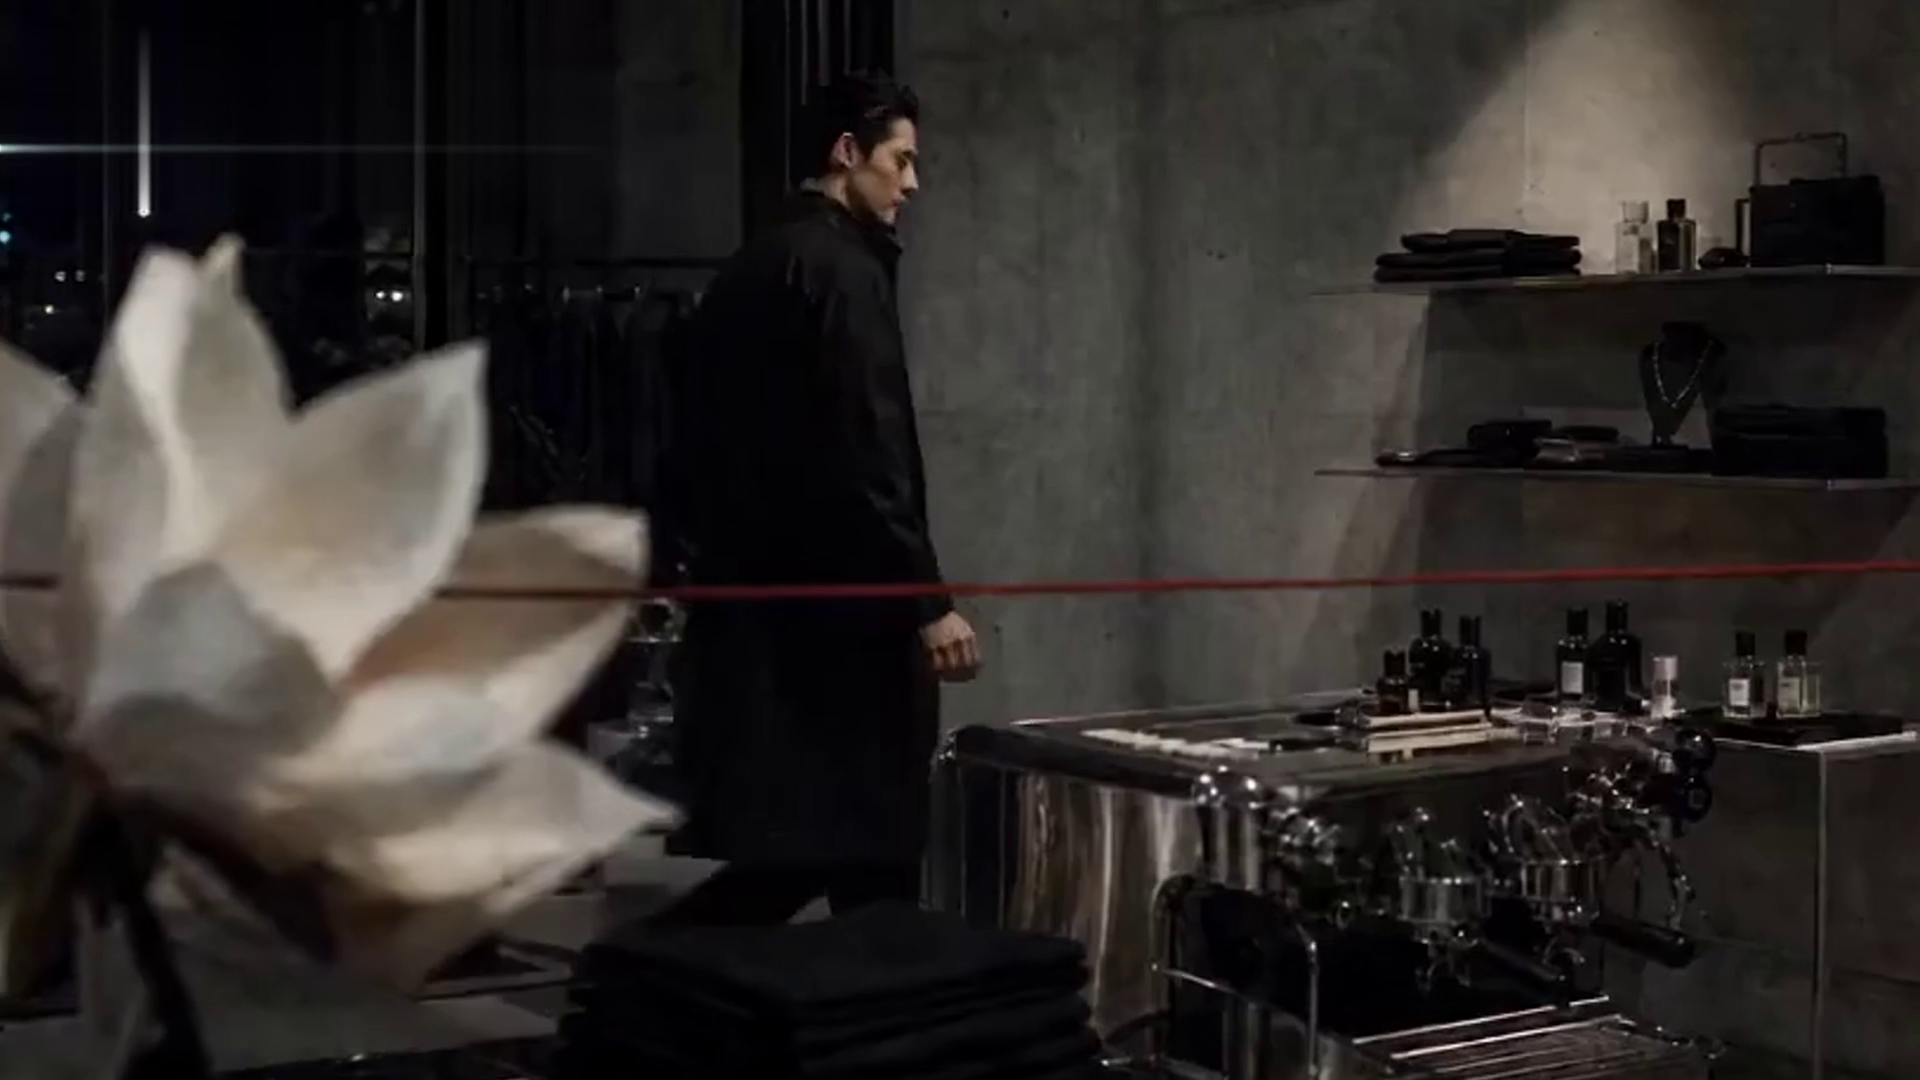
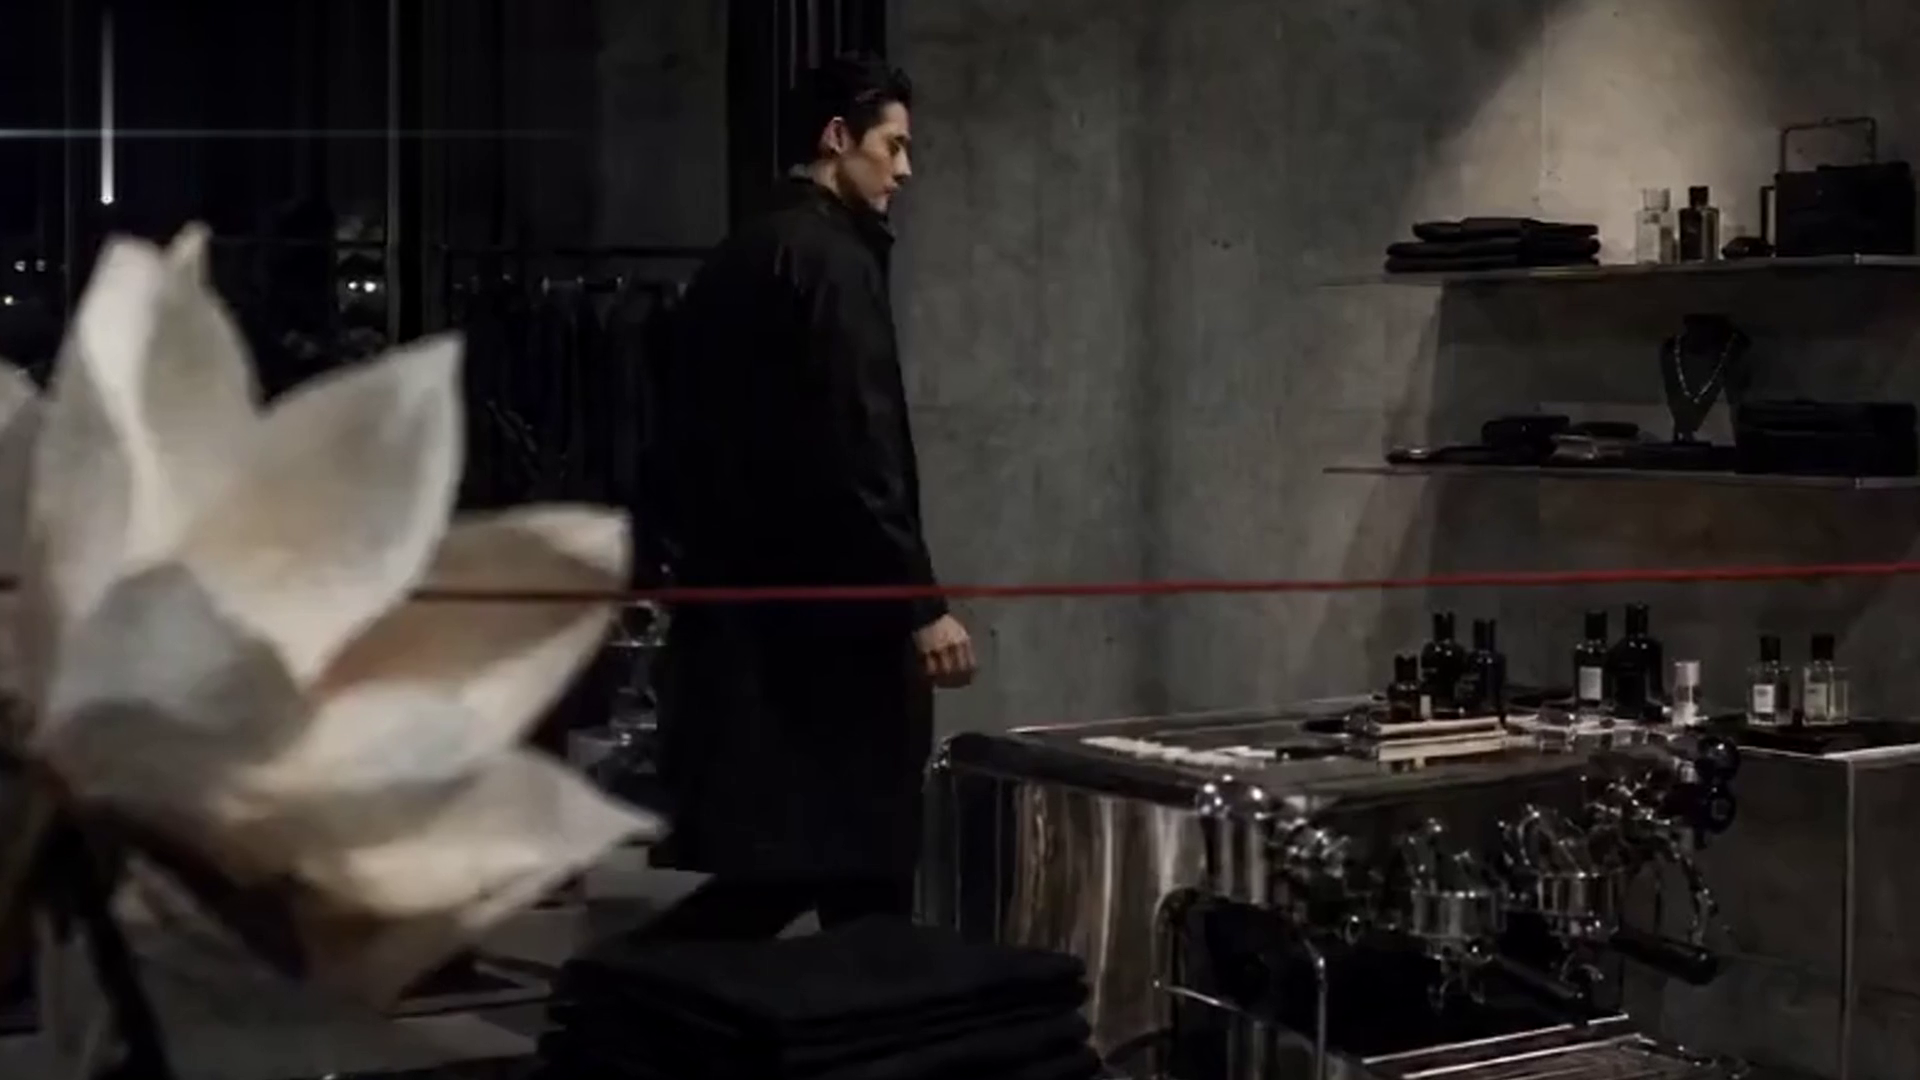
Calm KreoFlow hero motion and palette

diff --git a/src/app/globals.css b/src/app/globals.css
@@ -2,24 +2,24 @@
 
 :root {
   --background: #080909;
-  --foreground: #f5f1e8;
+  --foreground: #f2eee6;
   --surface: #151716;
-  --surface-strong: #f5f1e8;
-  --primary: #d8ff3e;
-  --primary-dark: #a4c22c;
-  --secondary: #ff6a3d;
-  --accent: #d8ff3e;
-  --accent-soft: #263012;
+  --surface-strong: #f2eee6;
+  --primary: #f2eee6;
+  --primary-dark: #c8beb0;
+  --secondary: #c74f3d;
+  --accent: #c74f3d;
+  --accent-soft: #2b1512;
   --muted: #1d201e;
   --muted-2: #272a28;
   --border: #343831;
   --ink-muted: #a9aa9f;
-  --success: #d8ff3e;
-  --warning: #ff6a3d;
+  --success: #f2eee6;
+  --warning: #c74f3d;
   --landing-bg: #080909;
-  --landing-paper: #f5f1e8;
+  --landing-paper: #f2eee6;
   --landing-ink: #080909;
-  --landing-accent: #d8ff3e;
+  --landing-accent: #c74f3d;
   --radius-sm: 14px;
   --radius-md: 22px;
   --shadow-soft: 0 30px 120px rgb(0 0 0 / 0.26);
@@ -49,11 +49,7 @@ html {
 
 body {
   min-height: 100vh;
-  background:
-    linear-gradient(90deg, rgb(255 255 255 / 0.035) 1px, transparent 1px),
-    linear-gradient(rgb(255 255 255 / 0.035) 1px, transparent 1px),
-    #080909;
-  background-size: 48px 48px;
+  background: #080909;
   color: var(--foreground);
   font-family: "Instrument Sans", sans-serif;
 }
@@ -72,7 +68,7 @@ a {
 }
 
 ::selection {
-  background: rgb(216 255 62 / 0.28);
+  background: rgb(199 79 61 / 0.32);
 }
 
 @media (prefers-reduced-motion: reduce) {
@@ -87,14 +83,7 @@ a {
 }
 
 .rf-noise {
-  pointer-events: none;
-  position: fixed;
-  inset: 0;
-  z-index: 60;
-  opacity: 0.05;
-  background-image:
-    repeating-radial-gradient(circle at 12% 20%, rgb(255 255 255 / 0.45) 0 1px, transparent 1px 5px);
-  mix-blend-mode: screen;
+  display: none;
 }
 
 .kf-hero {
@@ -117,7 +106,7 @@ a {
 .kf-hero-video {
   z-index: -2;
   object-fit: cover;
-  filter: saturate(0.88) contrast(1.08);
+  filter: saturate(0.82) contrast(1.04);
 }
 
 .kf-hero-grade {
@@ -206,7 +195,7 @@ a {
 
 .kf-hero-bottom h1 {
   max-width: 980px;
-  color: #d8ff3e;
+  color: var(--primary);
   font-family: "Space Grotesk", sans-serif;
   font-size: clamp(3.8rem, 7.9vw, 8.8rem);
   font-weight: 800;
@@ -308,7 +297,8 @@ a {
 }
 
 .rf-focus {
-  @apply focus-visible:outline-2 focus-visible:outline-offset-4 focus-visible:outline-[#d8ff3e];
+  outline-color: var(--accent);
+  @apply focus-visible:outline-2 focus-visible:outline-offset-4;
 }
 
 .rf-nav-link {
@@ -394,7 +384,7 @@ a {
 }
 
 .rf-main-cta {
-  background: #d8ff3e;
+  background: var(--primary);
   color: #080909;
 }
 
@@ -494,21 +484,21 @@ a {
 
 .rf-shot-visual-1 {
   background:
-    linear-gradient(145deg, transparent 45%, rgb(216 255 62 / 0.86) 46% 54%, transparent 55%),
-    radial-gradient(circle at 28% 22%, #ff6a3d 0 18%, transparent 19%),
+    linear-gradient(145deg, transparent 45%, rgb(242 238 230 / 0.8) 46% 54%, transparent 55%),
+    radial-gradient(circle at 28% 22%, var(--accent) 0 18%, transparent 19%),
     linear-gradient(160deg, #2f342c, #111311);
 }
 
 .rf-shot-visual-2 {
   background:
     linear-gradient(90deg, transparent 0 21%, rgb(245 241 232 / 0.86) 22% 25%, transparent 26%),
-    linear-gradient(140deg, #d8ff3e, #3a4d20 44%, #080909);
+    linear-gradient(140deg, var(--primary), #3a2925 44%, #080909);
 }
 
 .rf-shot-visual-3 {
   background:
     repeating-linear-gradient(135deg, rgb(245 241 232 / 0.18) 0 8px, transparent 8px 18px),
-    linear-gradient(150deg, #ff6a3d, #241410 52%, #080909);
+    linear-gradient(150deg, var(--accent), #241410 52%, #080909);
 }
 
 .rf-shot-card figcaption {
@@ -558,7 +548,7 @@ a {
 }
 
 .rf-script-panel span {
-  color: #d8ff3e;
+  color: var(--accent);
 }
 
 .rf-script-panel strong {
@@ -577,7 +567,7 @@ a {
 
 .rf-section-title p,
 .rf-package-head p {
-  color: #d8ff3e;
+  color: var(--accent);
 }
 
 .rf-section-title h2,
@@ -613,7 +603,7 @@ a {
 
 .rf-ledger-row span,
 .rf-ledger-row em {
-  color: #d8ff3e;
+  color: var(--accent);
   font-family: "IBM Plex Mono", monospace;
   font-style: normal;
   font-weight: 700;
@@ -655,7 +645,7 @@ a {
 
 .rf-delivery-grid div {
   border-radius: 20px;
-  background: #d8ff3e;
+  background: var(--primary);
   color: #080909;
   padding: 1rem;
 }
@@ -700,7 +690,7 @@ a {
 }
 
 .rf-proof-card p {
-  color: #d8ff3e;
+  color: var(--accent);
 }
 
 .rf-proof-card h3 {
@@ -788,8 +778,8 @@ a {
 }
 
 .input:focus {
-  border-color: #d8ff3e;
-  box-shadow: 0 0 0 4px rgb(216 255 62 / 0.16);
+  border-color: var(--accent);
+  box-shadow: 0 0 0 4px rgb(199 79 61 / 0.18);
 }
 
 @media (max-width: 900px) {

diff --git a/src/app/page.tsx b/src/app/page.tsx
@@ -170,7 +170,7 @@ function Hero() {
         <div className="kf-hero-meta">
           <span>universal demo case</span>
           <span>local retail / offer launch</span>
-          <span>10 sec creative asset</span>
+          <span>6 sec calm hero asset</span>
         </div>
 
         <div className="kf-hero-bottom">
@@ -227,7 +227,7 @@ function DemoCreative() {
           <span>Prompt direction</span>
           <p>
             cinematic image-to-video, slow dolly-in, premium local retail studio, product display, concrete wall, red production cord,
-            editorial commercial lighting, no logos, no readable text, room for oversized lime typography.
+            editorial commercial lighting, no logos, no readable text, room for restrained oversized ivory typography.
           </p>
         </div>
       </div>

diff --git a/src/components/brand.tsx b/src/components/brand.tsx
@@ -14,7 +14,7 @@ export function Brand({ className }: BrandProps) {
     >
       <span className="leading-none">
         <span className="block font-display text-xl font-black uppercase tracking-tight">KreoFlow</span>
-        <span className="font-mono text-[0.62rem] font-semibold uppercase tracking-[0.14em] text-[#d8ff3e]">
+        <span className="font-mono text-[0.62rem] font-semibold uppercase tracking-[0.14em] text-[var(--accent)]">
           content line
         </span>
       </span>